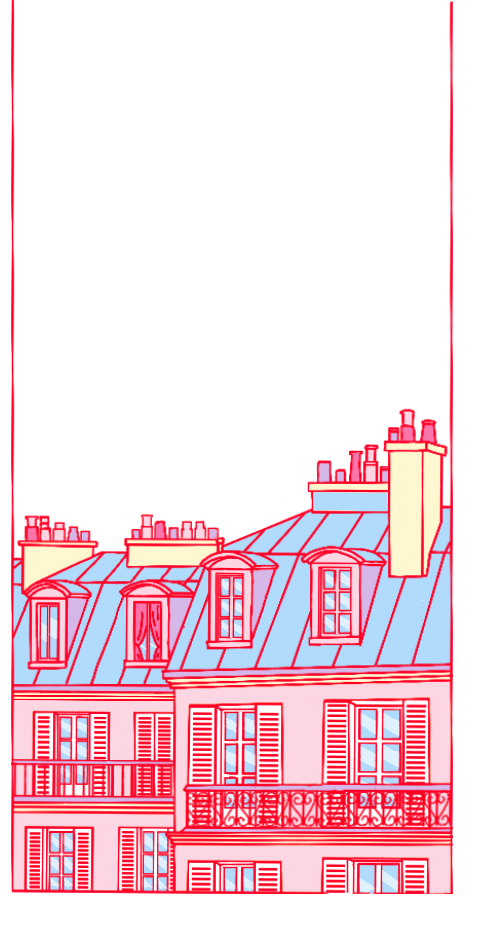
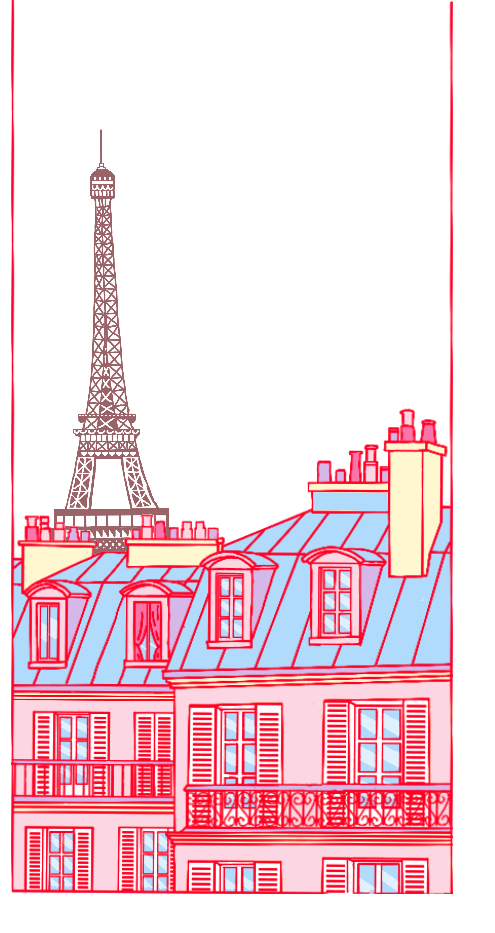
Add Léna’s Eiffel Tower with a revolving Paris beacon and hourly night sparkles

Changed region(s): [[0.0909, 0.1554, 0.3636, 0.5906]]

diff --git a/index.html b/index.html
@@ -259,9 +259,20 @@ html[data-theme="night"] #nana-glow-stars-layer .nana-phosphor-star {opacity:1!i
     #v2-paris {
       overflow:hidden; contain:strict;
       clip-path:polygon(3.2323% 12.7546%, 87.0707% 2.358%, 87.4747% 95.3912%, 3.2323% 94.7481%);
-      background:url("assets/room-redraw/paris-jour.webp") center / 100% 100% no-repeat;
+      background:url("assets/room-redraw/paris-jour.webp?v=eiffel-1") center / 100% 100% no-repeat;
     }
-    html[data-theme="night"] #v2-paris { background-image:url("assets/room-redraw/paris-nuit.webp?v=fenetres-1"); }
+    html[data-theme="night"] #v2-paris { background-image:url("assets/room-redraw/paris-nuit.webp?v=eiffel-1"); }
+    .eiffel-lights { display:none; position:absolute; inset:0; width:100%; height:100%; pointer-events:none; }
+    html[data-theme="night"] .eiffel-lights { display:block; }
+    .eiffel-sparkles { display:none; }
+    #v2-paris[data-sparkling] .eiffel-sparkles { display:inline; }
+    .eiffel-sparkles g { opacity:.65; }
+    @media (prefers-reduced-motion:no-preference) {
+      .eiffel-beacon { animation:eiffel-sweep 14s linear infinite; transform-origin:0 0; transform-box:view-box; }
+      .eiffel-sparkles g { animation:eiffel-glint var(--twinkle) linear var(--phase) infinite; }
+    }
+    @keyframes eiffel-sweep { to { transform:rotate(360deg); } }
+    @keyframes eiffel-glint { 0%,22%,33%,100% { opacity:0; } 26% { opacity:1; } }
     #v2-paris .paris-rain {
       position:absolute; inset:0 -15%; transform:skewX(-9deg); opacity:.88;
     }
@@ -953,7 +964,7 @@ html body #work-desktop .desktop-folder .folder-tile.work-browser-tile{
                 style.href = 'room-v2-ambient.css?v=20261118-ipad-heure-blanche';
                 style.onload = () => {
                   const script = document.createElement('script');
-                  script.src = 'room-v2-ambient.js?v=20261119-paris';
+                  script.src = 'room-v2-ambient.js?v=20261119-eiffel';
                   document.head.append(script);
                 };
                 document.head.append(style);
@@ -1066,6 +1077,27 @@ html body #work-desktop .desktop-folder .folder-tile.work-browser-tile{
           </svg>
           <div id="v2-marseille-hiver" data-room-v2-layer aria-hidden="true"></div>
           <div id="v2-paris" data-room-v2-layer aria-hidden="true">
+            <svg class="eiffel-lights" viewBox="0 0 495 933" preserveAspectRatio="none" aria-hidden="true">
+              <defs><linearGradient id="eiffel-light-falloff"><stop stop-color="#fff0ca" stop-opacity=".55"/><stop offset=".44" stop-color="#ffe7ae" stop-opacity=".25"/><stop offset="1" stop-color="#ffdb95" stop-opacity="0"/></linearGradient></defs>
+              <g transform="translate(101 174) scale(1 .42)">
+                <g class="eiffel-beacon" fill="url(#eiffel-light-falloff)">
+                  <path d="M0 0 L1550 -166 V166 Z" opacity=".23"/>
+                  <path d="M0 0 L1550 -119 V119 Z" opacity=".32"/>
+                  <path d="M0 0 L1550 -72 V72 Z" opacity=".48"/>
+                </g>
+              </g>
+              <circle cx="101" cy="174" r="2.6" fill="#fff7d9"/>
+              <g class="eiffel-sparkles" fill="#fffaf1">
+                <g style="--twinkle:1.9s;--phase:-0.00s"><circle cx="87" cy="419" r="2.5"/><circle cx="74" cy="516" r="1.7"/><circle cx="108" cy="543" r="1.7"/><circle cx="105" cy="188" r="2.5"/><circle cx="106" cy="322" r="1.7"/><circle cx="92" cy="479" r="1.7"/><circle cx="125" cy="421" r="2.5"/></g>
+                <g style="--twinkle:2.4s;--phase:-0.37s"><circle cx="103" cy="242" r="2.5"/><circle cx="116" cy="442" r="1.7"/><circle cx="80" cy="495" r="1.7"/><circle cx="94" cy="426" r="2.5"/><circle cx="98" cy="233" r="1.7"/><circle cx="123" cy="456" r="1.7"/><circle cx="67" cy="538" r="2.5"/></g>
+                <g style="--twinkle:2.1s;--phase:-0.74s"><circle cx="111" cy="362" r="2.5"/><circle cx="90" cy="186" r="1.7"/><circle cx="94" cy="454" r="1.7"/><circle cx="164" cy="509" r="2.5"/><circle cx="142" cy="467" r="1.7"/><circle cx="128" cy="473" r="1.7"/><circle cx="85" cy="506" r="2.5"/></g>
+                <g style="--twinkle:2.7s;--phase:-1.11s"><circle cx="62" cy="515" r="2.5"/><circle cx="101" cy="313" r="1.7"/><circle cx="154" cy="501" r="1.7"/><circle cx="93" cy="514" r="2.5"/><circle cx="139" cy="456" r="1.7"/><circle cx="96" cy="197" r="1.7"/><circle cx="111" cy="334" r="2.5"/></g>
+                <g style="--twinkle:2.2s;--phase:-1.48s"><circle cx="79" cy="483" r="2.5"/><circle cx="95" cy="275" r="1.7"/><circle cx="107" cy="271" r="1.7"/><circle cx="88" cy="528" r="2.5"/><circle cx="121" cy="547" r="1.7"/><circle cx="133" cy="427" r="1.7"/></g>
+                <g style="--twinkle:2.6s;--phase:-1.85s"><circle cx="117" cy="318" r="2.5"/><circle cx="118" cy="428" r="1.7"/><circle cx="100" cy="527" r="1.7"/><circle cx="99" cy="348" r="2.5"/><circle cx="109" cy="176" r="1.7"/><circle cx="92" cy="494" r="1.7"/></g>
+                <g style="--twinkle:1.8s;--phase:-2.22s"><circle cx="108" cy="214" r="2.5"/><circle cx="111" cy="528" r="1.7"/><circle cx="122" cy="510" r="1.7"/><circle cx="96" cy="214" r="2.5"/><circle cx="133" cy="441" r="1.7"/><circle cx="121" cy="536" r="1.7"/></g>
+                <g style="--twinkle:2.3s;--phase:-2.59s"><circle cx="119" cy="396" r="2.5"/><circle cx="104" cy="414" r="1.7"/><circle cx="98" cy="390" r="1.7"/><circle cx="78" cy="451" r="2.5"/><circle cx="113" cy="345" r="1.7"/><circle cx="97" cy="443" r="1.7"/></g>
+              </g>
+            </svg>
             <div class="paris-rain"></div>
           </div>
           <div id="v2-japan" data-room-v2-layer aria-hidden="true">

diff --git a/room-v2-ambient.js b/room-v2-ambient.js
@@ -258,8 +258,11 @@
   document.addEventListener('portfolio-language-change', setLabels);
 
   const hands = Object.fromEntries(Array.from(svg.querySelectorAll('[data-hand]'), el => [el.dataset.hand, el]));
+  const parisWindow = scene.querySelector('#v2-paris');
   function showTime() {
     const now = new Date();
+    // Paris is always a whole number of hours ahead of UTC.
+    parisWindow.toggleAttribute('data-sparkling', now.getUTCMinutes() < 5);
     const s = now.getSeconds(), m = now.getMinutes() + s / 60;
     hands.hour.setAttribute('transform', `rotate(${(now.getHours() % 12 + m / 60) * 30 + 110} 490 692)`);
     hands.minute.setAttribute('transform', `rotate(${m * 6 - 107} 490 692)`);
